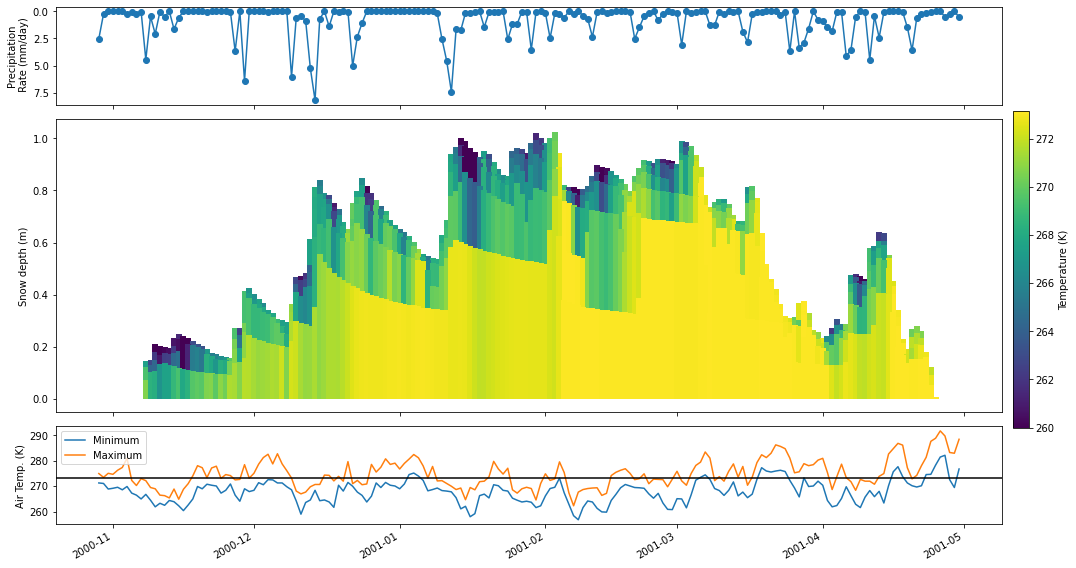
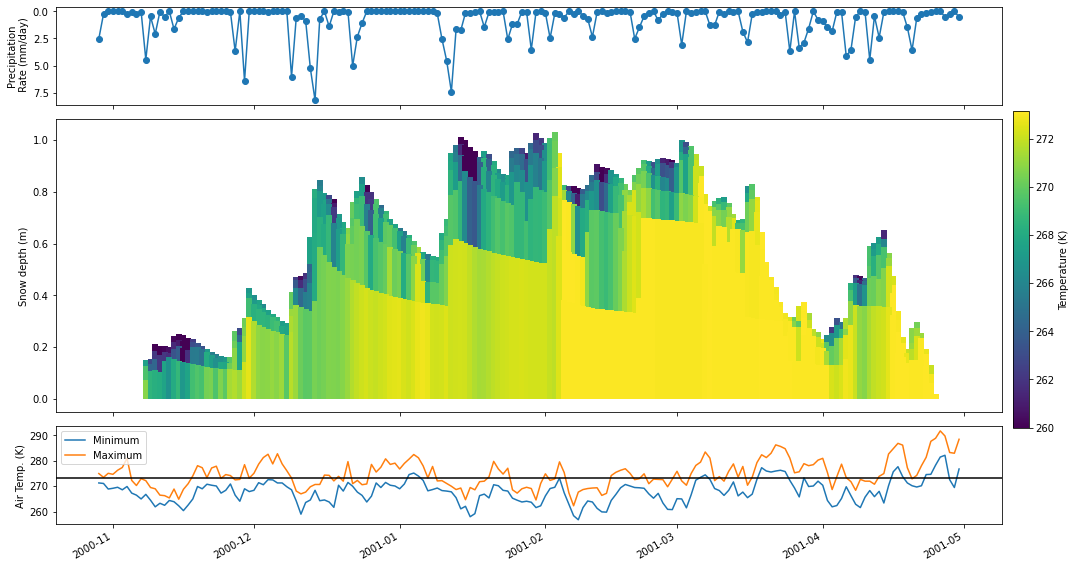
Update plotting

diff --git a/docs/conf.py b/docs/conf.py
@@ -163,6 +163,6 @@ man_pages = [
 #  dir menu entry, description, category)
 texinfo_documents = [
     (master_doc, 'pysumma', 'pysumma Documentation',
-     author, 'pysumma ', 'One line description of project.',
-     'Miscellaneous'),
+     author, 'pysumma ', 'A python package for interfacing with SUMMA',
+     'Hydrology'),
 ]

diff --git a/docs/plotting.rst b/docs/plotting.rst
@@ -22,32 +22,23 @@ base examples which are provided as tutorials. In order to get some data
 set up, we will start by importing the required libraries as well as run
 an example simulation.
 
-.. code:: ipython3
+.. code:: python3
 
     %pylab inline
     %load_ext autoreload
     %autoreload 2
     %reload_ext autoreload
-    
+
     import cartopy.crs as ccrs
     import numpy as np
     import matplotlib.pyplot as plt
     import geopandas as gpd
     import warnings
     warnings.filterwarnings('ignore')
-    
+
     import pysumma as ps
     import pysumma.plotting as psp
     ! cd ../../tutorial/data/reynolds && ./install_local_setup.sh && cd -
-
-
-.. parsed-literal::
-
-    Populating the interactive namespace from numpy and matplotlib
-    /home/bzq/workspace/pysumma/docs/notebooks
-
-
-.. code:: ipython3
 
     sim = ps.Simulation('summa.exe', '../../tutorial/data/reynolds/file_manager.txt')
     sim.run()
@@ -66,22 +57,12 @@ This is given by the variable ``iLayerHeight``. We can easily select out
 these two variables and then input them into the ``psp.layers`` function
 with no other arguments.
 
-.. code:: ipython3
+.. code:: python3
 
     time_range = slice('10-29-2000', '04-30-2001')
     depth    = ds.isel(hru=0).sel(time=time_range)['iLayerHeight']
     temp     = ds.isel(hru=0).sel(time=time_range)['mLayerTemp']
     psp.layers(temp, depth)
-
-
-
-
-.. parsed-literal::
-
-    (<AxesSubplot:>, <matplotlib.cm.ScalarMappable at 0x7f3b452d4050>)
-
-
-
 
 .. image:: ./plotting_files/./plotting_4_1.png
 
@@ -102,14 +83,14 @@ up the figure with three subplots. Finally, we will do some
 customization on the ``psp.layers`` call. Finally, we’ll add the other
 two subplots with the air temperature and precipitation timeseries.
 
-.. code:: ipython3
+.. code:: python3
 
     # Create the figure
     fig, axes = plt.subplots(3, 1, figsize=(14, 8), gridspec_kw={'height_ratios': [1, 3, 1]}, sharex=True)
     # Add a new axis for the colorbar
     cax = fig.add_axes([0.15, 0.25, 1, 0.55])
     cax.axis('off')
-    
+
     # Calculate the daily values
     depth        = depth.resample({'time': 'D'}).mean()
     temp         = temp.resample({'time': 'D'}).mean()
@@ -117,20 +98,20 @@ two subplots with the air temperature and precipitation timeseries.
     airtemp_mean = ds['airtemp'].isel(hru=0).sel(time=time_range).resample({'time': 'D'}).mean()
     airtemp_max  = ds['airtemp'].isel(hru=0).sel(time=time_range).resample({'time': 'D'}).max()
     airtemp_min  = ds['airtemp'].isel(hru=0).sel(time=time_range).resample({'time': 'D'}).min()
-    
+
     # Do the layers plot
-    psp.layers(temp, depth, ax=axes[1], 
-               variable_range=[260, 273.15],                                # Set a range for the colors
-               line_kwargs={'linewidth': 6},                                # Wider linewidth because we are plotting daily
+    psp.layers(temp, depth, ax=axes[1],
+               variable_range=[260, 273.15],                         # Set a range for the colors
+               line_kwargs={'linewidth': 6},                         # Wider linewidth because we are plotting daily
                cbar_kwargs={'label': 'Temperature (K)', 'ax': cax},  # Colorbar arguments
-               plot_soil=False)                                             # Limit to the snow domain
-    
+               plot_soil=False)                                      # Limit to the snow domain
+
     # Add the precip and temperature plots
     precip.plot(ax=axes[0], marker='o')
     airtemp_min.plot(ax=axes[2], label='Minimum')
     airtemp_max.plot(ax=axes[2], label='Maximum')
     axes[2].legend()
-    
+
     # Set some axis labels
     axes[2].axhline(273.16, color='black')
     axes[0].invert_yaxis()
@@ -171,13 +152,13 @@ here that there are higher frequency oscillations in the upper layers,
 as well as a more pronounced seasonal cycle. in the deeper layers we see
 a dampened and delayed response.
 
-.. code:: ipython3
+.. code:: python3
 
     # Reindex so that the bottom layers are the soil layers
     mlayertemp = ds['mLayerTemp'].isel(hru=0)
     mlayertemp.values = psp.utils.justify(mlayertemp.where(mlayertemp > -900).values)
     mlayertemp = mlayertemp.isel(midToto=slice(-6, None))
-    
+
     fig, ax = plt.subplots(figsize=(12, 6))
     psp.hovmoller(mlayertemp, 'dayofyear', 'midToto', ax=ax, colormap='turbo')
     ax.invert_yaxis()
@@ -185,15 +166,6 @@ a dampened and delayed response.
     ax.set_yticklabels([1, 2, 3, 4, 5])
     ax.set_ylabel('Soil layer (index, higher=deeper)')
     ax.set_xlabel('Day of year')
-
-
-
-
-.. parsed-literal::
-
-    Text(0.5, 0, 'Day of year')
-
-
 
 
 .. image:: ./plotting_files/./plotting_8_1.png
@@ -211,39 +183,30 @@ sensible heat. In this case we’ll aggregate over two temporal dimensions
 dimensions include
 ``year, month, day, hour, minute, dayofyear, week, dayofweek, and quarter``.
 
-.. code:: ipython3
+.. code:: python3
 
     fig, axes = plt.subplots(1, 3, figsize=(16, 5), sharex=True, sharey=True)
     time_range = slice('01-01-2001', '01-01-2002')
     netrad = ds['scalarNetRadiation'].isel(hru=0).sel(time=time_range)
     latheat = -ds['scalarLatHeatTotal'].isel(hru=0).sel(time=time_range)
     senheat = -ds['scalarSenHeatTotal'].isel(hru=0).sel(time=time_range)
-    
+
     # Colorbar axis
     cax = fig.add_axes([0.15, 0.0, 0.9, 0.95])
     cax.axis('off')
-    
+
     # Range for colormap
     vrange = [-50, 500]
-    
+
     psp.hovmoller(netrad,  'month', 'hour', variable_range=vrange, colormap='turbo', ax=axes[0], add_colorbar=False)
     psp.hovmoller(latheat, 'month', 'hour', variable_range=vrange, colormap='turbo', ax=axes[1], add_colorbar=False)
     psp.hovmoller(senheat, 'month', 'hour', variable_range=vrange, colormap='turbo', ax=axes[2], cbar_kwargs={'ax': cax, 'label': 'Radiative flux ($W/m^2$)'})
-    
+
     axes[1].set_xlabel('Month of year')
     axes[0].set_ylabel('Hour of day')
     axes[0].set_title('Net radiation')
     axes[1].set_title('Latent heat flux')
     axes[2].set_title('Sensible heat flux')
-
-
-
-
-.. parsed-literal::
-
-    Text(0.5, 1.0, 'Sensible heat flux')
-
-
 
 
 .. image:: ./plotting_files/./plotting_10_1.png
@@ -269,40 +232,22 @@ either a single time slice or an aggregation over the simulation time
 period. In this case we’ll just take the mean of the input air
 temperature.
 
-.. code:: ipython3
+.. code:: python3
 
     !cd ../../tutorial/data/yakima && ./install_local_setup.sh && cd -
-    
+
     shapefile = '../../tutorial/data/yakima/shapefile/yakima.shp'
     file_manager = '../../tutorial/data/yakima/file_manager.txt'
     gdf = gpd.GeoDataFrame.from_file(shapefile)
     yakima = ps.Distributed('summa.exe', file_manager)
     yakima.run()
     assert np.alltrue([s.status == 'Success' for s in yakima.simulations.values()])
-    
     yakima_ds = yakima.merge_output()
 
-
-.. parsed-literal::
-
-    /home/bzq/workspace/pysumma/docs/notebooks
-
-
-.. code:: ipython3
-
     fig, ax = plt.subplots(figsize=(10, 10), subplot_kw={'projection':ccrs.Mercator()})
-    
-    psp.spatial(yakima_ds['airtemp'].mean(dim='time'), gdf, ax=ax)
-
-
-
-
-.. parsed-literal::
-
-    <GeoAxesSubplot:>
-
-
+    psp.spatial(yakima_ds['scalarTotalSoilLiq'].mean(dim='time'), gdf, ax=ax)
 
 
 .. image:: ./plotting_files/./plotting_13_1.png
+
 

diff --git a/docs/whats-new.rst b/docs/whats-new.rst
@@ -8,6 +8,7 @@ Develop version
 
 Enhancements
 ~~~~~~~~~~~~
+- Add a plotting page to the documentation
 - Plot soil made default in ``psp.layers``
 - Make 'local' the default run option in ``Simulation`` based classes
 - Add ``_repr_html_`` to ``OptionContainer`` classes to make viewing easier in notebooks
